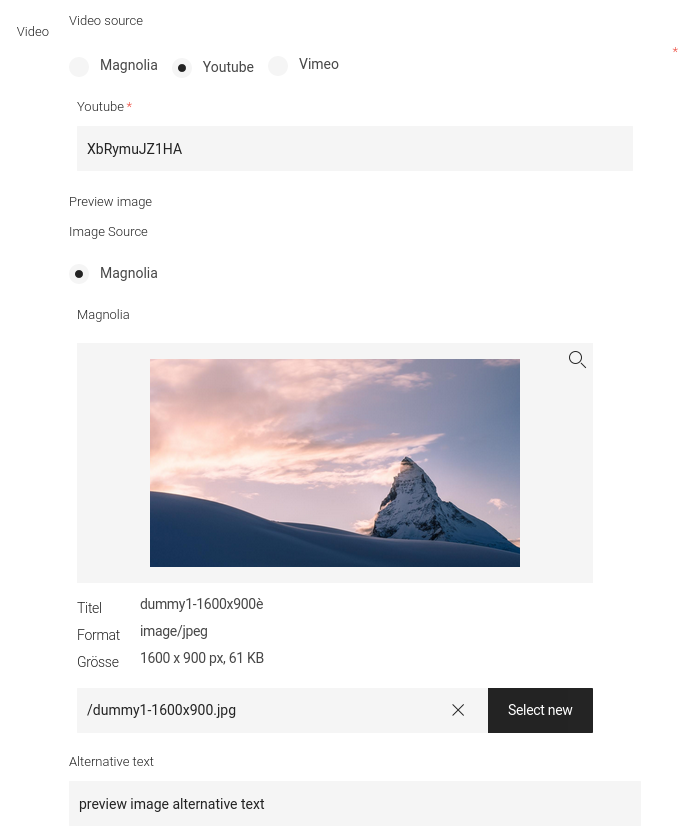
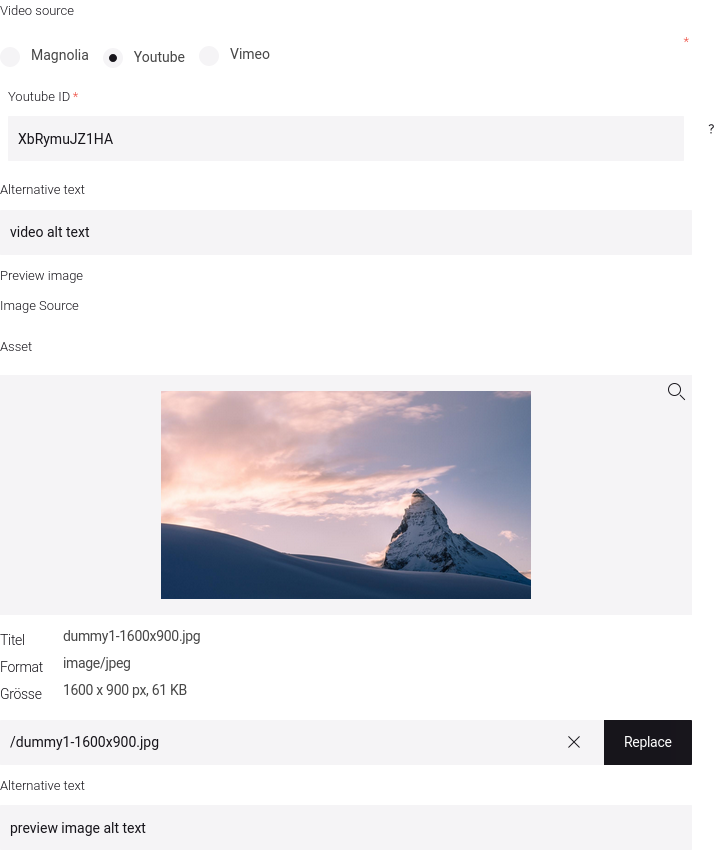
Add alt text to video set

diff --git a/custom-definitions/src/main/java/com/merkle/oss/magnolia/definition/custom/videoset/model/VideoReferenceModel.java b/custom-definitions/src/main/java/com/merkle/oss/magnolia/definition/custom/videoset/model/VideoReferenceModel.java
@@ -1,5 +1,10 @@
 package com.merkle.oss.magnolia.definition.custom.videoset.model;
 
+import java.util.Locale;
+import java.util.Objects;
+import java.util.Optional;
+import java.util.Set;
+
 import com.merkle.oss.magnolia.definition.custom.configuration.LocaleProvider;
 import com.merkle.oss.magnolia.definition.custom.imageset.model.ImageReferenceModel;
 import com.merkle.oss.magnolia.definition.custom.videoset.VideoSetDefinitionBuilder;
@@ -9,25 +14,25 @@ import com.merkle.oss.magnolia.powernode.ValueConverter;
 
 import jakarta.annotation.Nullable;
 import jakarta.inject.Inject;
-import java.util.Locale;
-import java.util.Objects;
-import java.util.Optional;
-import java.util.Set;
 
 public class VideoReferenceModel {
 	private final String assetId;
 	private final VideoType videoType;
+	@Nullable
+	private final String altText;
 	@Nullable
 	private final ImageReferenceModel previewImage;
 
 	public VideoReferenceModel(
 			final String assetId,
 			final VideoType videoType,
+			@Nullable final String altText,
 			@Nullable final ImageReferenceModel previewImage
 	) {
 		this.assetId = assetId;
 		this.videoType = videoType;
-		this.previewImage = previewImage;
+        this.altText = altText;
+        this.previewImage = previewImage;
 	}
 
 	public String getAssetId() {
@@ -36,6 +41,10 @@ public class VideoReferenceModel {
 
 	public VideoType getVideoType() {
 		return videoType;
+	}
+
+	public Optional<String> getAltText() {
+		return Optional.ofNullable(altText);
 	}
 
 	public Optional<ImageReferenceModel> getPreviewImage() {
@@ -47,19 +56,20 @@ public class VideoReferenceModel {
 		if (!(o instanceof VideoReferenceModel that)) {
 			return false;
 		}
-        return Objects.equals(assetId, that.assetId) && Objects.equals(videoType, that.videoType) && Objects.equals(previewImage, that.previewImage);
+        return Objects.equals(assetId, that.assetId) && Objects.equals(videoType, that.videoType) && Objects.equals(altText, that.altText) && Objects.equals(previewImage, that.previewImage);
 	}
 
 	@Override
 	public int hashCode() {
-		return Objects.hash(assetId, videoType, previewImage);
+		return Objects.hash(assetId, videoType, altText, previewImage);
 	}
 
 	@Override
 	public String toString() {
-		return "VideoReference{" +
+		return "VideoReferenceModel{" +
 				"assetId='" + assetId + '\'' +
 				", videoType=" + videoType +
+				", altText='" + altText + '\'' +
 				", previewImage=" + previewImage +
 				'}';
 	}
@@ -102,6 +112,7 @@ public class VideoReferenceModel {
 							new VideoReferenceModel(
 									assetId,
 									videoType,
+									video.getProperty(VideoSetDefinitionBuilder.ALT_TEXT_PROPERTY_NAME_PROVIDER.apply(propertyName), dialogLocale, ValueConverter::getString).orElse(null),
 									imageReferenceFactory
 											.create(VideoSetDefinitionBuilder.PREVIEW_IMAGE_PROPERTY_NAME_PROVIDER.apply(propertyName), dialogLocale, video)
 											.orElse(null)

diff --git a/custom-definitions/src/main/java/com/merkle/oss/magnolia/definition/custom/videoset/VideoSetDefinition.java b/custom-definitions/src/main/java/com/merkle/oss/magnolia/definition/custom/videoset/VideoSetDefinition.java
@@ -6,18 +6,27 @@ import info.magnolia.ui.editor.FormView;
 import info.magnolia.ui.field.ConfiguredComplexPropertyDefinition;
 import info.magnolia.ui.field.EditorPropertyDefinition;
 import info.magnolia.ui.field.FieldValidatorDefinition;
+import info.magnolia.ui.field.TextFieldDefinition;
 import info.magnolia.ui.framework.layout.FieldLayoutDefinition;
 import info.magnolia.ui.framework.layout.StackedLayoutProducer;
 
 import java.util.List;
+import java.util.Optional;
+import java.util.function.Function;
+import java.util.stream.Collectors;
+import java.util.stream.Stream;
 
 import javax.jcr.Node;
 
 import com.merkle.oss.magnolia.definition.custom.imageset.ImageSetDefinition;
 import com.merkle.oss.magnolia.definition.custom.switchable.SwitchableDefinition;
 
+import jakarta.annotation.Nullable;
+
 public class VideoSetDefinition extends ConfiguredComplexPropertyDefinition<Node> implements FormDefinition<Node> {
 	private final SwitchableDefinition video;
+	@Nullable
+	private final TextFieldDefinition altText;
 	private final ImageSetDefinition previewImage;
     private final boolean videoFieldI18n;
     private final boolean previewImageRequired;
@@ -26,11 +35,13 @@ public class VideoSetDefinition extends ConfiguredComplexPropertyDefinition<Node
 
 	public VideoSetDefinition(
 			final SwitchableDefinition video,
+			@Nullable final TextFieldDefinition altText,
 			final ImageSetDefinition previewImage,
 			final boolean videoFieldI18n,
 			final boolean previewImageRequired
 	) {
 		this.video = video;
+		this.altText = altText;
 		this.previewImage = previewImage;
         this.videoFieldI18n = videoFieldI18n;
         this.previewImageRequired = previewImageRequired;
@@ -42,13 +53,21 @@ public class VideoSetDefinition extends ConfiguredComplexPropertyDefinition<Node
 		return video;
 	}
 
+	public Optional<TextFieldDefinition> getAltTextField() {
+		return Optional.ofNullable(altText);
+	}
+
 	public ImageSetDefinition getPreviewImage() {
 		return previewImage;
 	}
 
 	@Override
 	public List<EditorPropertyDefinition> getProperties() {
-		return List.of(video, previewImage);
+		return Stream.of(
+				Stream.of(video),
+				Stream.ofNullable(altText),
+				Stream.of(previewImage)
+		).flatMap(field -> field).collect(Collectors.toList());
 	}
 
 	@Override
@@ -61,12 +80,18 @@ public class VideoSetDefinition extends ConfiguredComplexPropertyDefinition<Node
 		super.setI18n(i18n);
 		video.setI18n(videoFieldI18n && i18n);
 		previewImage.setI18n(i18n);
+		if(altText != null) {
+			altText.setI18n(i18n);
+		}
 	}
 
 	public void setReadOnly(final boolean readOnly) {
 		this.readOnly = readOnly;
 		video.setReadOnly(readOnly);
 		previewImage.setReadOnly(readOnly);
+		if(altText != null) {
+			altText.setReadOnly(readOnly);
+		}
 	}
 
 	public boolean isReadOnly() {

diff --git a/custom-definitions/src/main/java/com/merkle/oss/magnolia/definition/custom/videoset/AbstractVideoSetDefinitionBuilder.java b/custom-definitions/src/main/java/com/merkle/oss/magnolia/definition/custom/videoset/AbstractVideoSetDefinitionBuilder.java
@@ -2,6 +2,7 @@ package com.merkle.oss.magnolia.definition.custom.videoset;
 
 import info.magnolia.ui.field.EditorPropertyDefinition;
 import info.magnolia.ui.field.FieldValidatorDefinition;
+import info.magnolia.ui.field.TextFieldDefinition;
 
 import java.util.Arrays;
 import java.util.Collection;
@@ -16,6 +17,7 @@ import jakarta.annotation.Nullable;
 import javax.jcr.Node;
 
 import com.merkle.oss.magnolia.definition.builder.complex.AbstractConfiguredComplexPropertyDefinitionBuilder;
+import com.merkle.oss.magnolia.definition.builder.simple.TextFieldDefinitionBuilder;
 import com.merkle.oss.magnolia.definition.custom.imageset.AbstractImageSetDefinitionBuilder;
 import com.merkle.oss.magnolia.definition.custom.imageset.ImageType;
 import com.merkle.oss.magnolia.definition.custom.switchable.FieldOption;
@@ -23,8 +25,10 @@ import com.merkle.oss.magnolia.definition.custom.switchable.SwitchableDefinition
 
 public abstract class AbstractVideoSetDefinitionBuilder<B extends AbstractVideoSetDefinitionBuilder<B>> extends AbstractConfiguredComplexPropertyDefinitionBuilder<Node, VideoSetDefinition, B> {
 	private static final String SELECTION = "selection";
+	private static final String ALT_TEXT = "alt";
 	private static final String PREVIEW_IMAGE = "previewImage";
 	public static final UnaryOperator<String> SELECTION_PROPERTY_NAME_PROVIDER = name -> name + "_" + SELECTION;
+	public static final UnaryOperator<String> ALT_TEXT_PROPERTY_NAME_PROVIDER = name -> name + "_" + ALT_TEXT;
 	public static final UnaryOperator<String> PREVIEW_IMAGE_PROPERTY_NAME_PROVIDER = name -> name + "_" + PREVIEW_IMAGE;
 
 	private final AbstractImageSetDefinitionBuilder<?> imageSetDefinitionBuilder;
@@ -165,6 +169,7 @@ public abstract class AbstractVideoSetDefinitionBuilder<B extends AbstractVideoS
 						.label(labelPrefix + "video.label")
 						.removePreviouslySelected(removePreviouslySelected)
 						.build(name),
+				createAltTextField(name).orElse(null),
 				imageSetDefinitionBuilder
 						.label(labelPrefix + "previewImage.label")
 						.build(PREVIEW_IMAGE_PROPERTY_NAME_PROVIDER.apply(name)),
@@ -185,5 +190,11 @@ public abstract class AbstractVideoSetDefinitionBuilder<B extends AbstractVideoS
 				)
 		);
 		return definition;
+	}
+
+	protected Optional<TextFieldDefinition> createAltTextField(final String name) {
+		return Optional.of(new TextFieldDefinitionBuilder()
+				.label(labelPrefix + "altText.label")
+				.build(ALT_TEXT_PROPERTY_NAME_PROVIDER.apply(name)));
 	}
 }

diff --git a/custom-definitions/src/main/java/com/merkle/oss/magnolia/definition/custom/videoset/model/VideoModel.java b/custom-definitions/src/main/java/com/merkle/oss/magnolia/definition/custom/videoset/model/VideoModel.java
@@ -19,16 +19,20 @@ public class VideoModel {
 	private final String src;
 	private final VideoType videoType;
 	@Nullable
+	private final String altText;
+	@Nullable
 	private final ImageReferenceModel previewImage;
 
 	public VideoModel(
 			final String src,
 			final VideoType videoType,
+			@Nullable final String altText,
 			@Nullable final ImageReferenceModel previewImage
 	) {
 		this.src = src;
 		this.videoType = videoType;
-		this.previewImage = previewImage;
+        this.altText = altText;
+        this.previewImage = previewImage;
 	}
 
 	public String getSrc() {
@@ -39,6 +43,9 @@ public class VideoModel {
 		return videoType;
 	}
 
+	public Optional<String> getAltText() {
+		return Optional.ofNullable(altText);
+	}
 
 	public Optional<ImageReferenceModel> getPreviewImage() {
 		return Optional.ofNullable(previewImage);
@@ -49,19 +56,20 @@ public class VideoModel {
 		if (!(o instanceof VideoModel that)) {
 			return false;
 		}
-        return Objects.equals(src, that.src) && Objects.equals(videoType, that.videoType) && Objects.equals(previewImage, that.previewImage);
+        return Objects.equals(src, that.src) && Objects.equals(videoType, that.videoType) && Objects.equals(altText, that.altText) && Objects.equals(previewImage, that.previewImage);
 	}
 
 	@Override
 	public int hashCode() {
-		return Objects.hash(src, videoType, previewImage);
+		return Objects.hash(src, videoType, altText, previewImage);
 	}
 
 	@Override
 	public String toString() {
-		return "Video{" +
+		return "VideoModel{" +
 				"src='" + src + '\'' +
 				", videoType=" + videoType +
+				", altText='" + altText + '\'' +
 				", previewImage=" + previewImage +
 				'}';
 	}
@@ -97,6 +105,7 @@ public class VideoModel {
 					new VideoModel(
 							videoSource.src,
 							videoReference.getVideoType(),
+							videoReference.getAltText().orElse(videoSource.altText),
 							videoReference.getPreviewImage().orElse(null)
 					)
 			);
@@ -117,9 +126,12 @@ public class VideoModel {
 
 	public static class VideoSource {
 		private final String src;
+		@Nullable
+		private final String altText;
 
-		public VideoSource(final String src) {
+		public VideoSource(final String src, @Nullable final String altText) {
 			this.src = src;
-		}
+            this.altText = altText;
+        }
 	}
 }

diff --git a/custom-definitions/src/main/java/com/merkle/oss/magnolia/definition/custom/videoset/model/YoutubeVideoSourceTransformer.java b/custom-definitions/src/main/java/com/merkle/oss/magnolia/definition/custom/videoset/model/YoutubeVideoSourceTransformer.java
@@ -5,7 +5,7 @@ import com.merkle.oss.magnolia.definition.custom.videoset.VideoTypes;
 import com.merkle.oss.magnolia.definition.custom.videoset.YoutubeTextValueConverter;
 import com.merkle.oss.magnolia.definition.custom.videoset.model.VideoModel.VideoSource;
 import com.merkle.oss.magnolia.definition.custom.videoset.model.VideoModel.VideoSourceTransformer;
-import org.apache.commons.lang3.StringUtils;
+import org.apache.commons.lang3.Strings;
 
 import java.util.Locale;
 import java.util.Optional;
@@ -19,8 +19,8 @@ public class YoutubeVideoSourceTransformer implements VideoSourceTransformer {
 
 	@Override
 	public Optional<VideoSource> transform(final Locale locale, final String src) {
-		if (StringUtils.startsWith(src, YoutubeTextValueConverter.PREFIX)) {
-			return Optional.of(new VideoSource(StringUtils.removeStart(src, YoutubeTextValueConverter.PREFIX)));
+		if (Strings.CS.startsWith(src, YoutubeTextValueConverter.PREFIX)) {
+			return Optional.of(new VideoSource(Strings.CS.removeStart(src, YoutubeTextValueConverter.PREFIX), null));
 		}
 		return Optional.empty();
 	}

diff --git a/custom-definitions/src/main/java/com/merkle/oss/magnolia/definition/custom/videoset/model/VimeoVideoSourceTransformer.java b/custom-definitions/src/main/java/com/merkle/oss/magnolia/definition/custom/videoset/model/VimeoVideoSourceTransformer.java
@@ -5,7 +5,7 @@ import com.merkle.oss.magnolia.definition.custom.videoset.VideoTypes;
 import com.merkle.oss.magnolia.definition.custom.videoset.VimeoTextValueConverter;
 import com.merkle.oss.magnolia.definition.custom.videoset.model.VideoModel.VideoSource;
 import com.merkle.oss.magnolia.definition.custom.videoset.model.VideoModel.VideoSourceTransformer;
-import org.apache.commons.lang3.StringUtils;
+import org.apache.commons.lang3.Strings;
 
 import java.util.Locale;
 import java.util.Optional;
@@ -19,8 +19,8 @@ public class VimeoVideoSourceTransformer implements VideoSourceTransformer {
 
 	@Override
 	public Optional<VideoSource> transform(final Locale locale, final String src) {
-		if (StringUtils.startsWith(src, VimeoTextValueConverter.PREFIX)) {
-			return Optional.of(new VideoSource(StringUtils.removeStart(src, VimeoTextValueConverter.PREFIX)));
+		if (Strings.CS.startsWith(src, VimeoTextValueConverter.PREFIX)) {
+			return Optional.of(new VideoSource(Strings.CS.removeStart(src, VimeoTextValueConverter.PREFIX), null));
 		}
 		return Optional.empty();
 	}

diff --git a/custom-definitions/src/main/java/com/merkle/oss/magnolia/definition/custom/videoset/model/DamVideoSourceTransformer.java b/custom-definitions/src/main/java/com/merkle/oss/magnolia/definition/custom/videoset/model/DamVideoSourceTransformer.java
@@ -26,7 +26,7 @@ public class DamVideoSourceTransformer implements VideoSourceTransformer {
 	@Override
 	public Optional<VideoSource> transform(final Locale locale, final String src) {
 		return Optional.ofNullable(damTemplatingFunctions.getAsset(src)).map(asset ->
-			new VideoSource(asset.getLink())
+			new VideoSource(asset.getLink(), asset.getCaption())
 		);
 	}
 }
